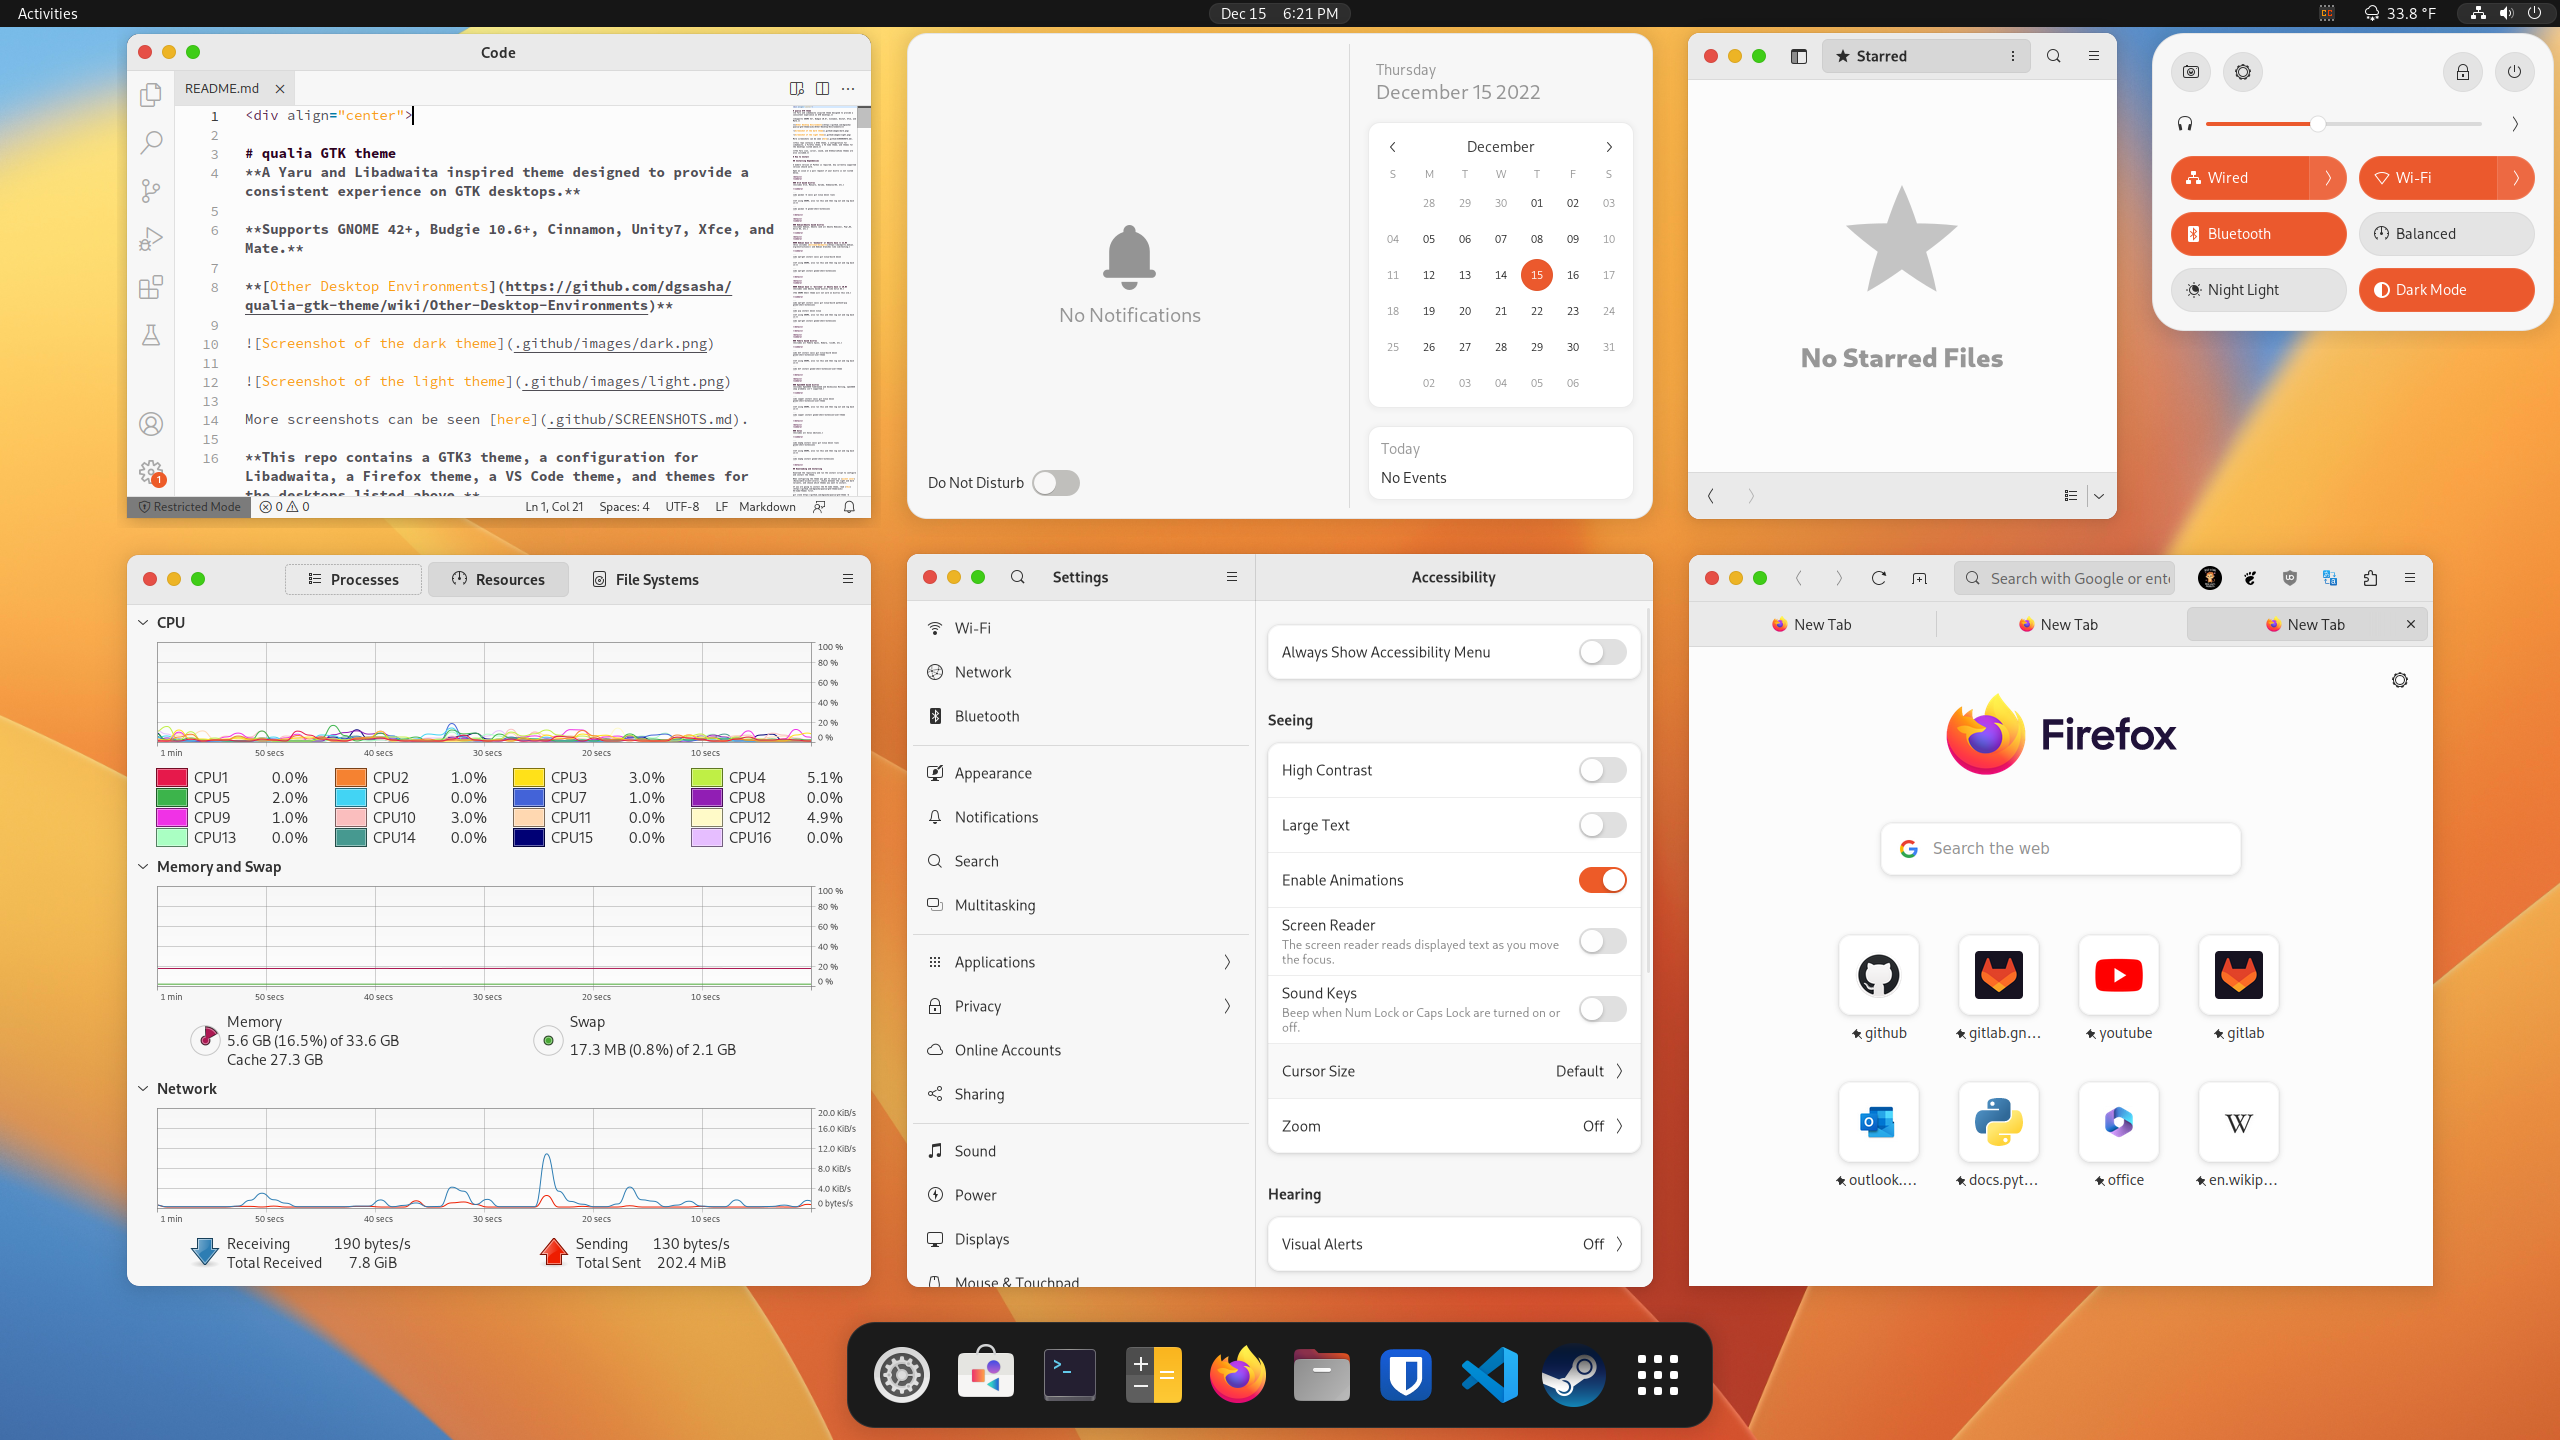
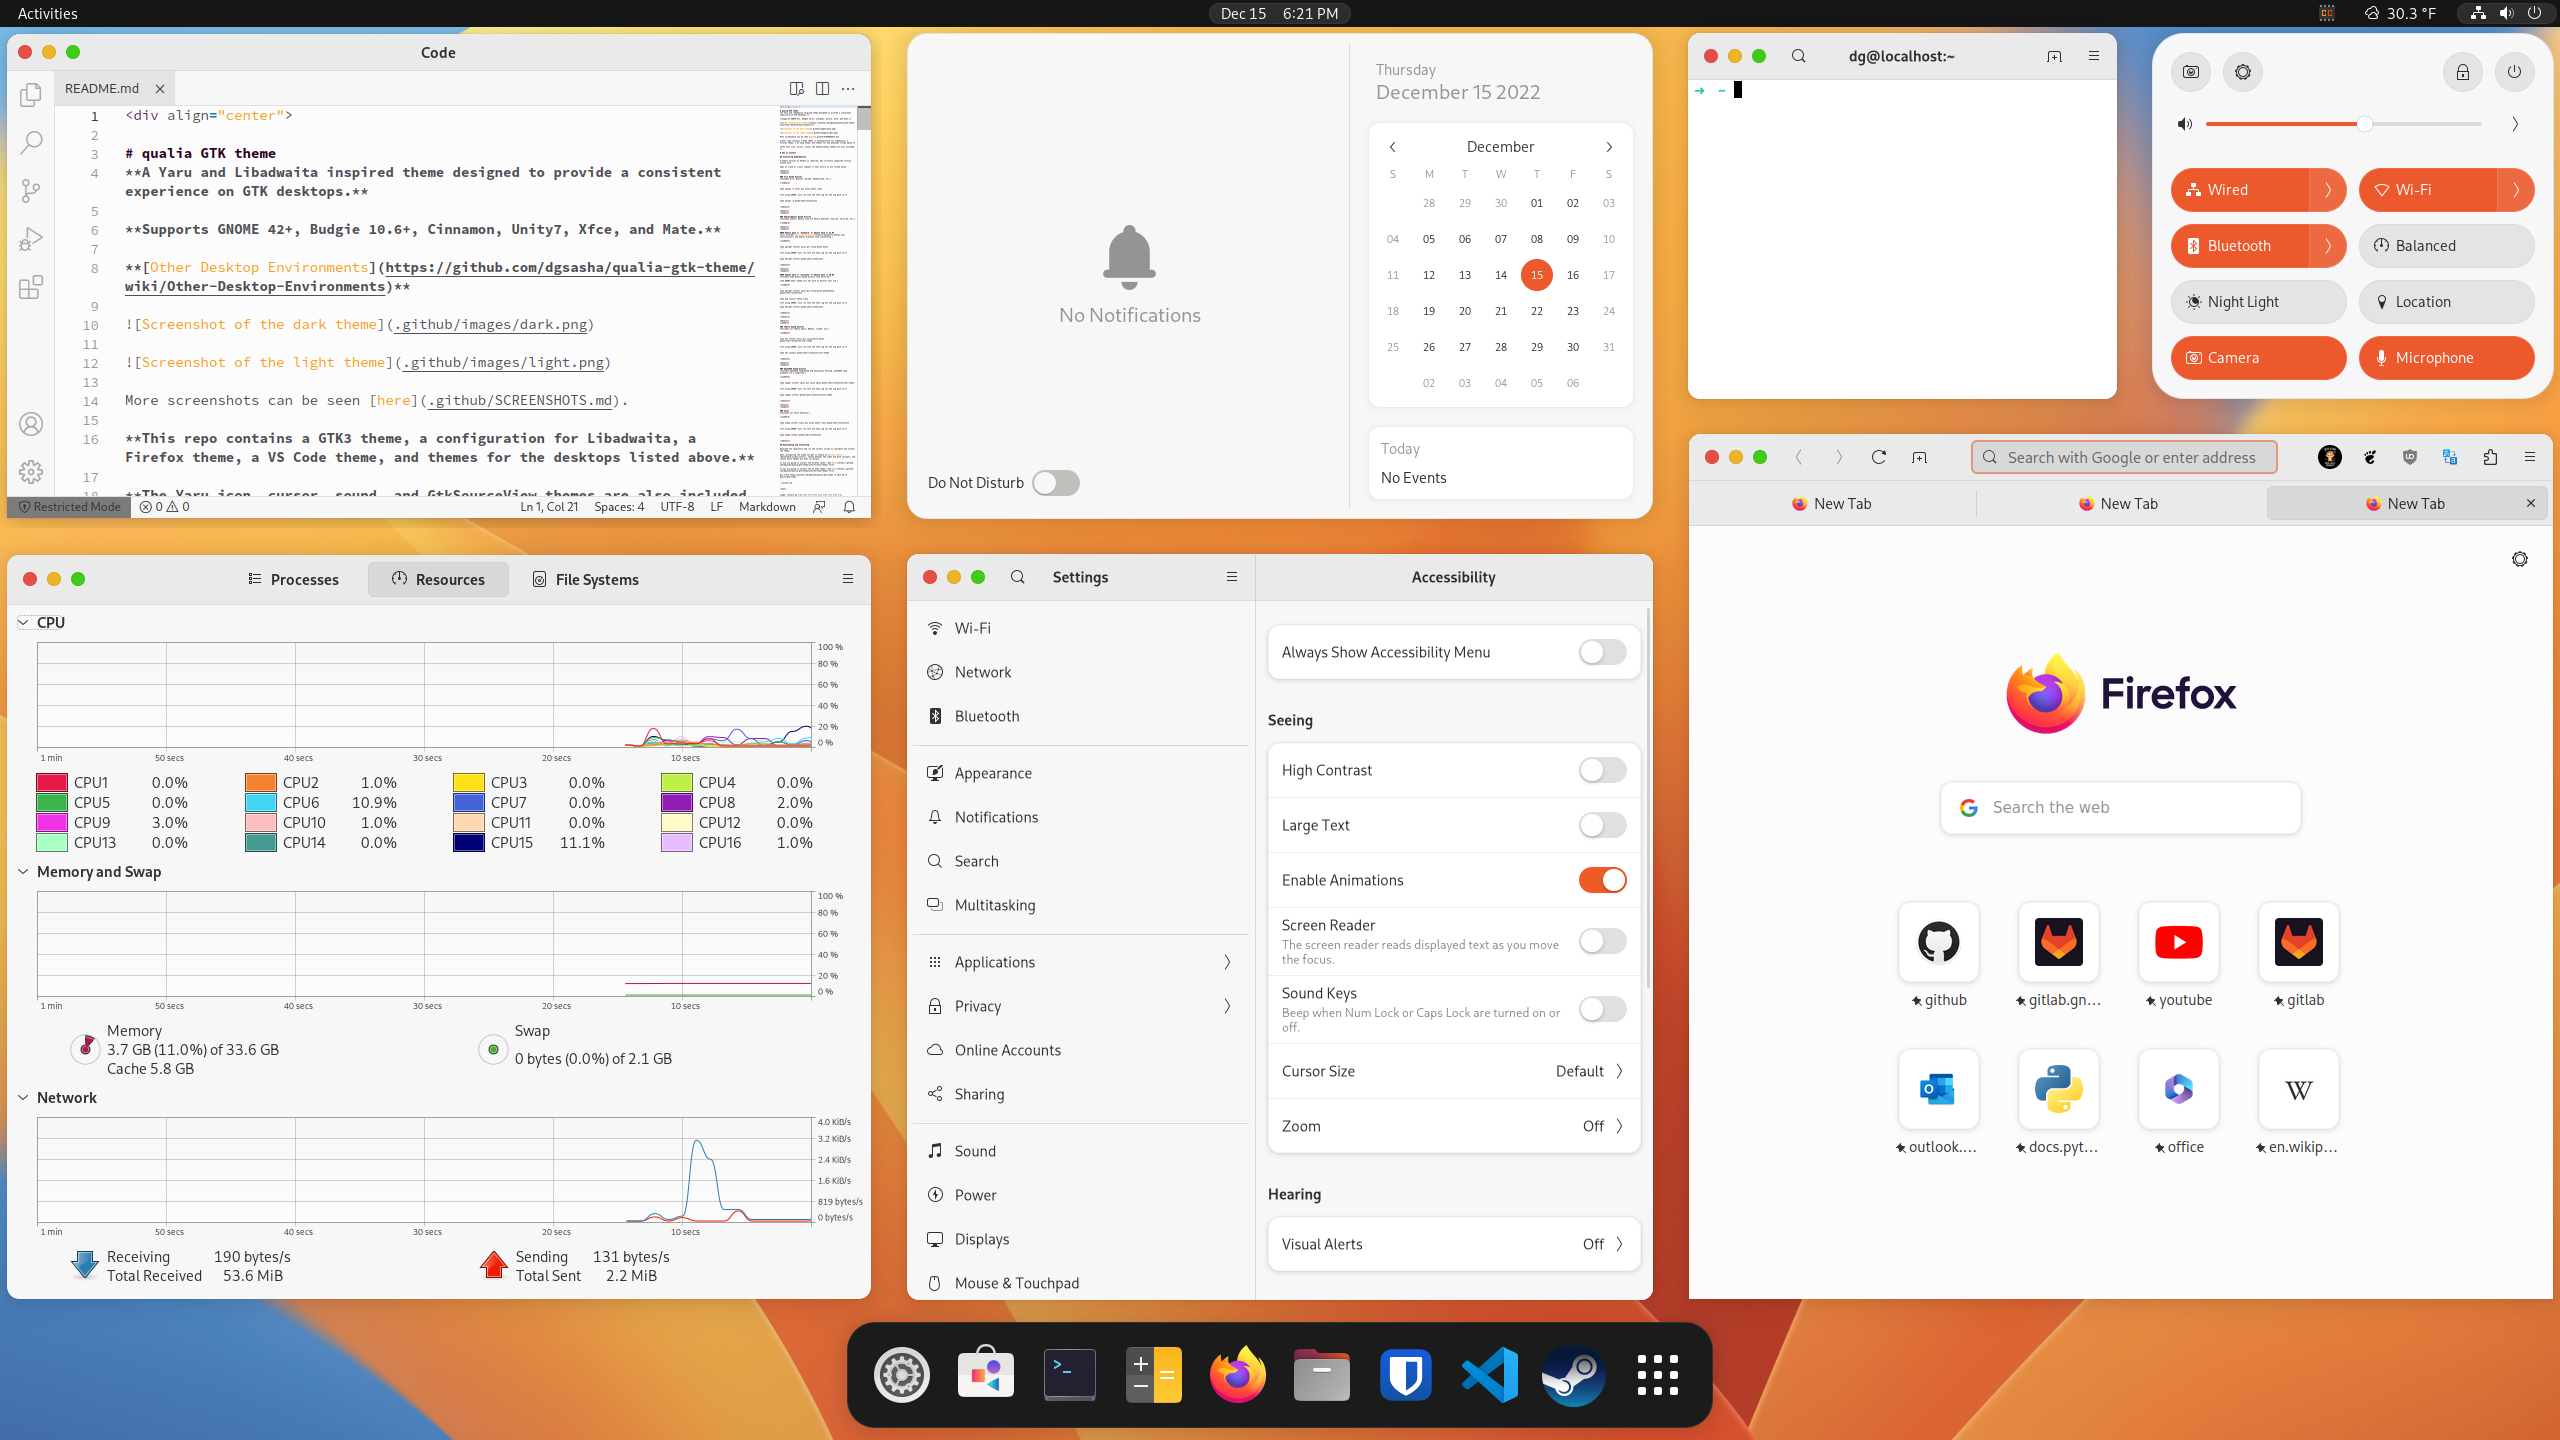
Move screenshots to wiki to save space, update screenshots and readme

diff --git a/README.md b/README.md
@@ -1,7 +1,7 @@
 <div align="center">
 
 # qualia GTK theme
-**A Yaru and Libadwaita inspired theme designed to provide a consistent experience on GTK desktops.**
+**A Yaru and Libadwaita inspired theme designed to provide a consistent experience across GTK desktops.**
 
 **Supports GNOME 42+, Budgie 10.6+, Cinnamon, Unity7, Xfce, and Mate.**
 
@@ -11,7 +11,7 @@
 
 ![Screenshot of the light theme](.github/images/light.png)
 
-More screenshots can be seen [here](.github/SCREENSHOTS.md).
+More screenshots can be seen [here](https://github.com/dgsasha/qualia-gtk-theme/wiki/Screenshots).
 
 **This repo contains a GTK3 theme, a configuration for Libadwaita, a Firefox theme, a VS Code theme, and themes for the desktops listed above.**
   
@@ -22,8 +22,6 @@ More screenshots can be seen [here](.github/SCREENSHOTS.md).
 ## Installing Dependencies
 
 A modern version of Python is required. Any currently supported version should work.
-
-Open an issue or a pull request if your distro is not listed below.
 
 <details>
 <summary>
@@ -160,16 +158,23 @@ sudo eopkg install gnome-shell-extensions
 
 ## Downloading and Installing
 
-Download the repository and run the install script to configure and install the theme.
+#### First, download the repository.
 
-When configuring the theme you get to choose an [accent color](#available-accent-colors), choose between the light and dark variants, and choose which themes you want to install.
-
-If you are going to install the Firefox theme, read [this](https://github.com/dgsasha/qualia-gtk-theme/wiki/Firefox-Theme) first.
-
-If you are going to install the VS Code theme, read [this](https://github.com/dgsasha/qualia-gtk-theme/wiki/VS-Code-Theme) first.
+If storage space / network usage is not a problem, run this:
 ```
 git clone https://github.com/dgsasha/qualia-gtk-theme -b main && cd qualia-gtk-theme
 ```
+If you want to limit the download size and don't plan on contributing, run this instead:
+```
+git clone --depth=1 --recurse-submodules --shallow-submodules https://github.com/dgsasha/qualia-gtk-theme -b main && cd qualia-gtk-theme
+```
+
+#### Next, run the install script to configure and install the theme.
+
+When configuring the theme you get to choose an [accent color](#available-accent-colors), choose between the light and dark variants, and choose which themes you want to install.
+
+If you are going to install the Firefox theme, read [this](https://github.com/dgsasha/qualia-gtk-theme/wiki/Firefox-Theme) first, and if you are going to install the VS Code theme, read [this](https://github.com/dgsasha/qualia-gtk-theme/wiki/VS-Code-Theme) first.
+
 ```
 ./install.py
 ```
@@ -201,7 +206,9 @@ options:
 
 ## Updating
 
-Pull in changes from the git repo and run the install script again.
+You should try to update the theme frequently, and always make sure it is up to date before opening issues.
+
+To update, pull in changes from the git repo and run the install script again.
 
 ```
 git pull
@@ -210,7 +217,7 @@ git pull
 ./install.py
 ```
 
-Only the themes that need updates will be reinstalled, if you want to force reinstall everything, use the `--force` option.
+Only the themes that have updates will be reinstalled, if you want to force reinstall everything, use the `--force` option.
 
 Your previous configuration will be used again unless you use the `--reconfigure` option.
 
@@ -221,7 +228,7 @@ If you installed the VS Code theme, you can use `--syntax` to change the syntax 
 <details>
 <summary>
 
-**Warning about GNOME**
+#### Warning about GNOME
 
 </summary>
 
@@ -268,6 +275,8 @@ Run './uninstall.py firefox' to remove the theme from all Firefox variants.
 
 ### [Flatpak Apps](https://github.com/dgsasha/qualia-gtk-theme/wiki/Flatpak-Apps) &nbsp; [Snap Apps](https://github.com/dgsasha/qualia-gtk-theme/wiki/Snap-Apps) &nbsp; [GDM Theme](https://github.com/dgsasha/qualia-gtk-theme/wiki/GDM-Theme) &nbsp; [Copying](https://github.com/dgsasha/qualia-gtk-theme/wiki/Copying) &nbsp; [Issues](https://github.com/dgsasha/qualia-gtk-theme/wiki/Issues) &nbsp; [Contributing](https://github.com/dgsasha/qualia-gtk-theme/wiki/Contributing)
 
-## Credits :)
+## :heart: &nbsp; Credits &nbsp; :heart:
 ### A huge thanks to:
 ### [Ubuntu](https://ubuntu.com/) for [Yaru](https://github.com/ubuntu/yaru), [vinceliuice](https://github.com/vinceliuice) for [WhiteSur-gtk-theme](https://github.com/vinceliuice/WhiteSur-gtk-theme), [rafaelmardojai](https://github.com/rafaelmardojai) for [firefox-gnome-theme](https://github.com/rafaelmardojai/firefox-gnome-theme), [piousdeer](https://github.com/piousdeer) for [vscode-adwaita](https://github.com/piousdeer/vscode-adwaita), and [lassekongo83](https://github.com/lassekongo83) for [adw-gtk3](https://github.com/lassekongo83/adw-gtk3).
+
+</div>
